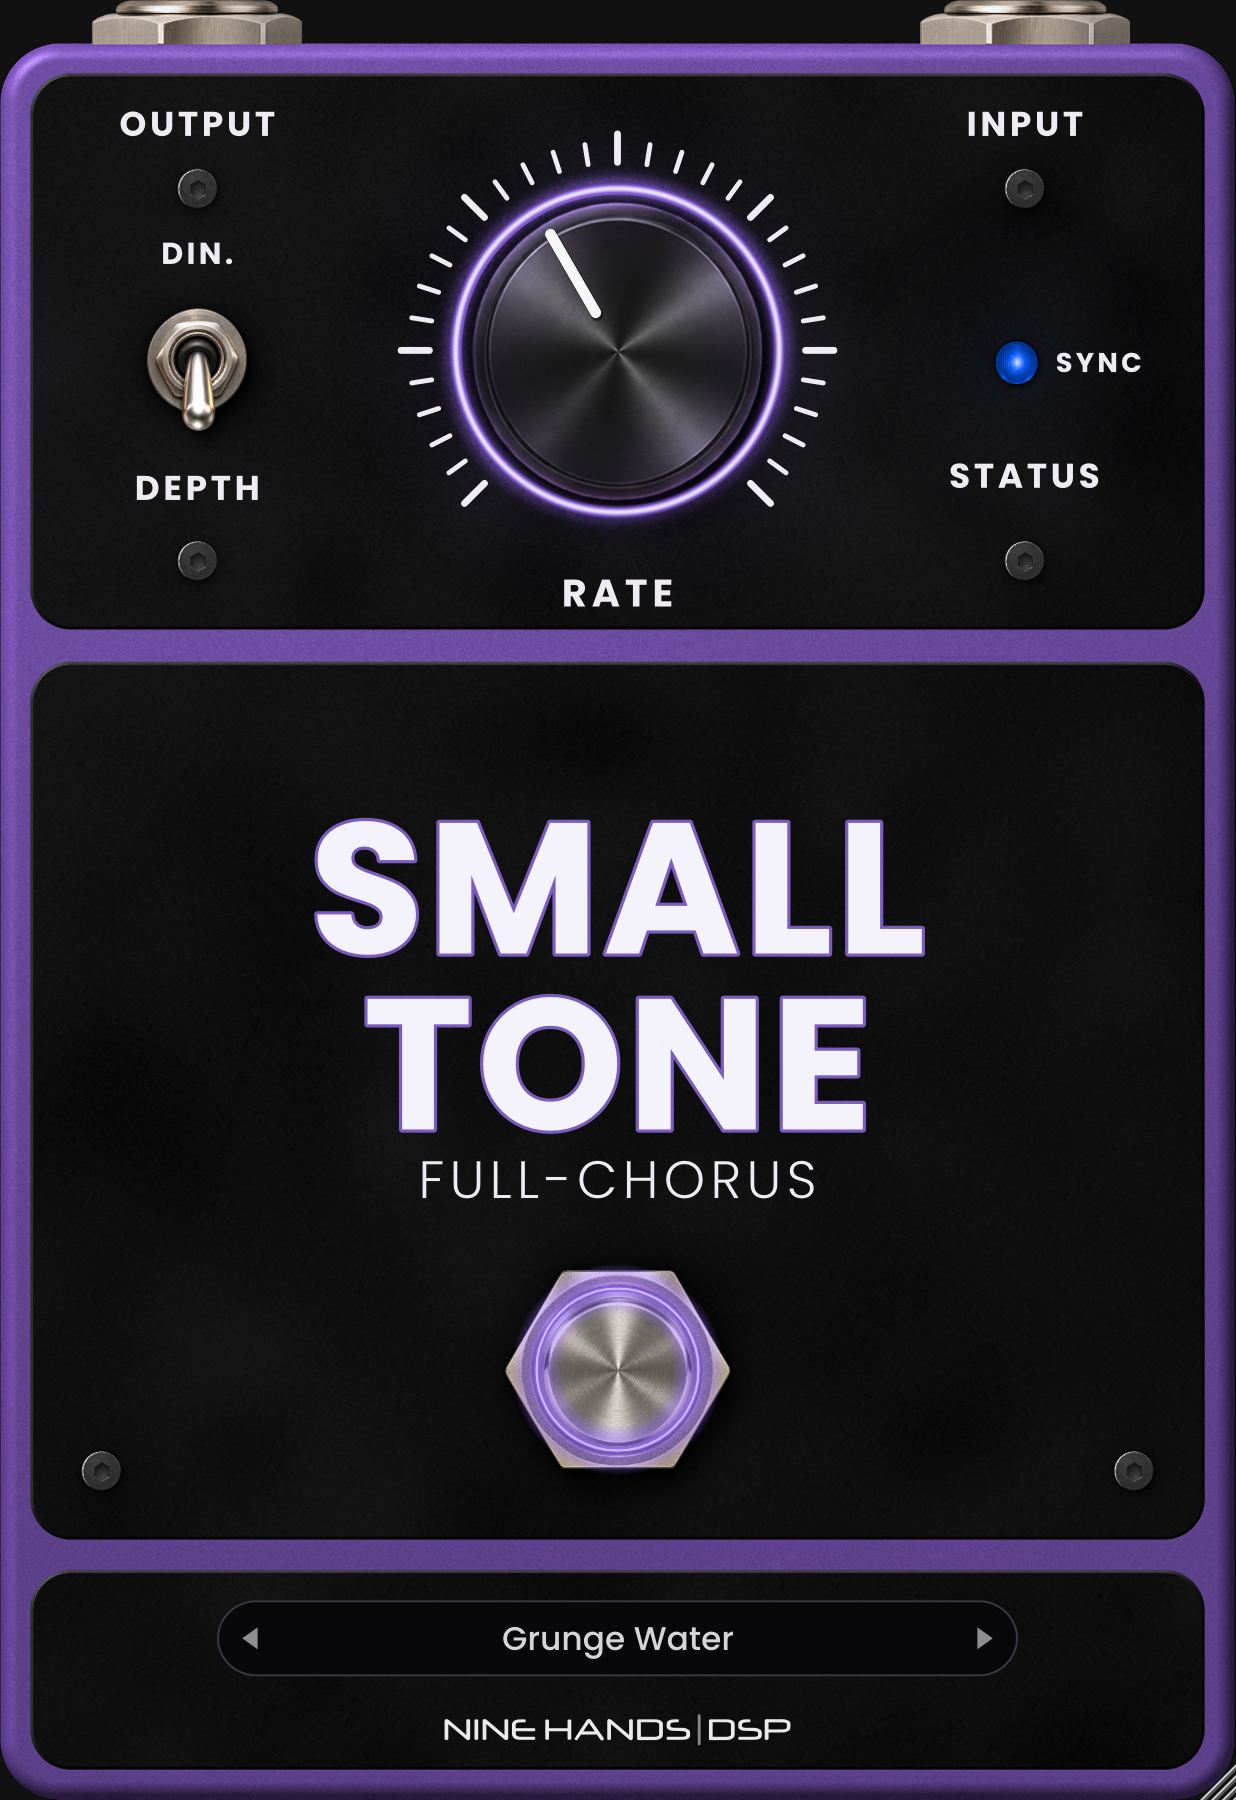
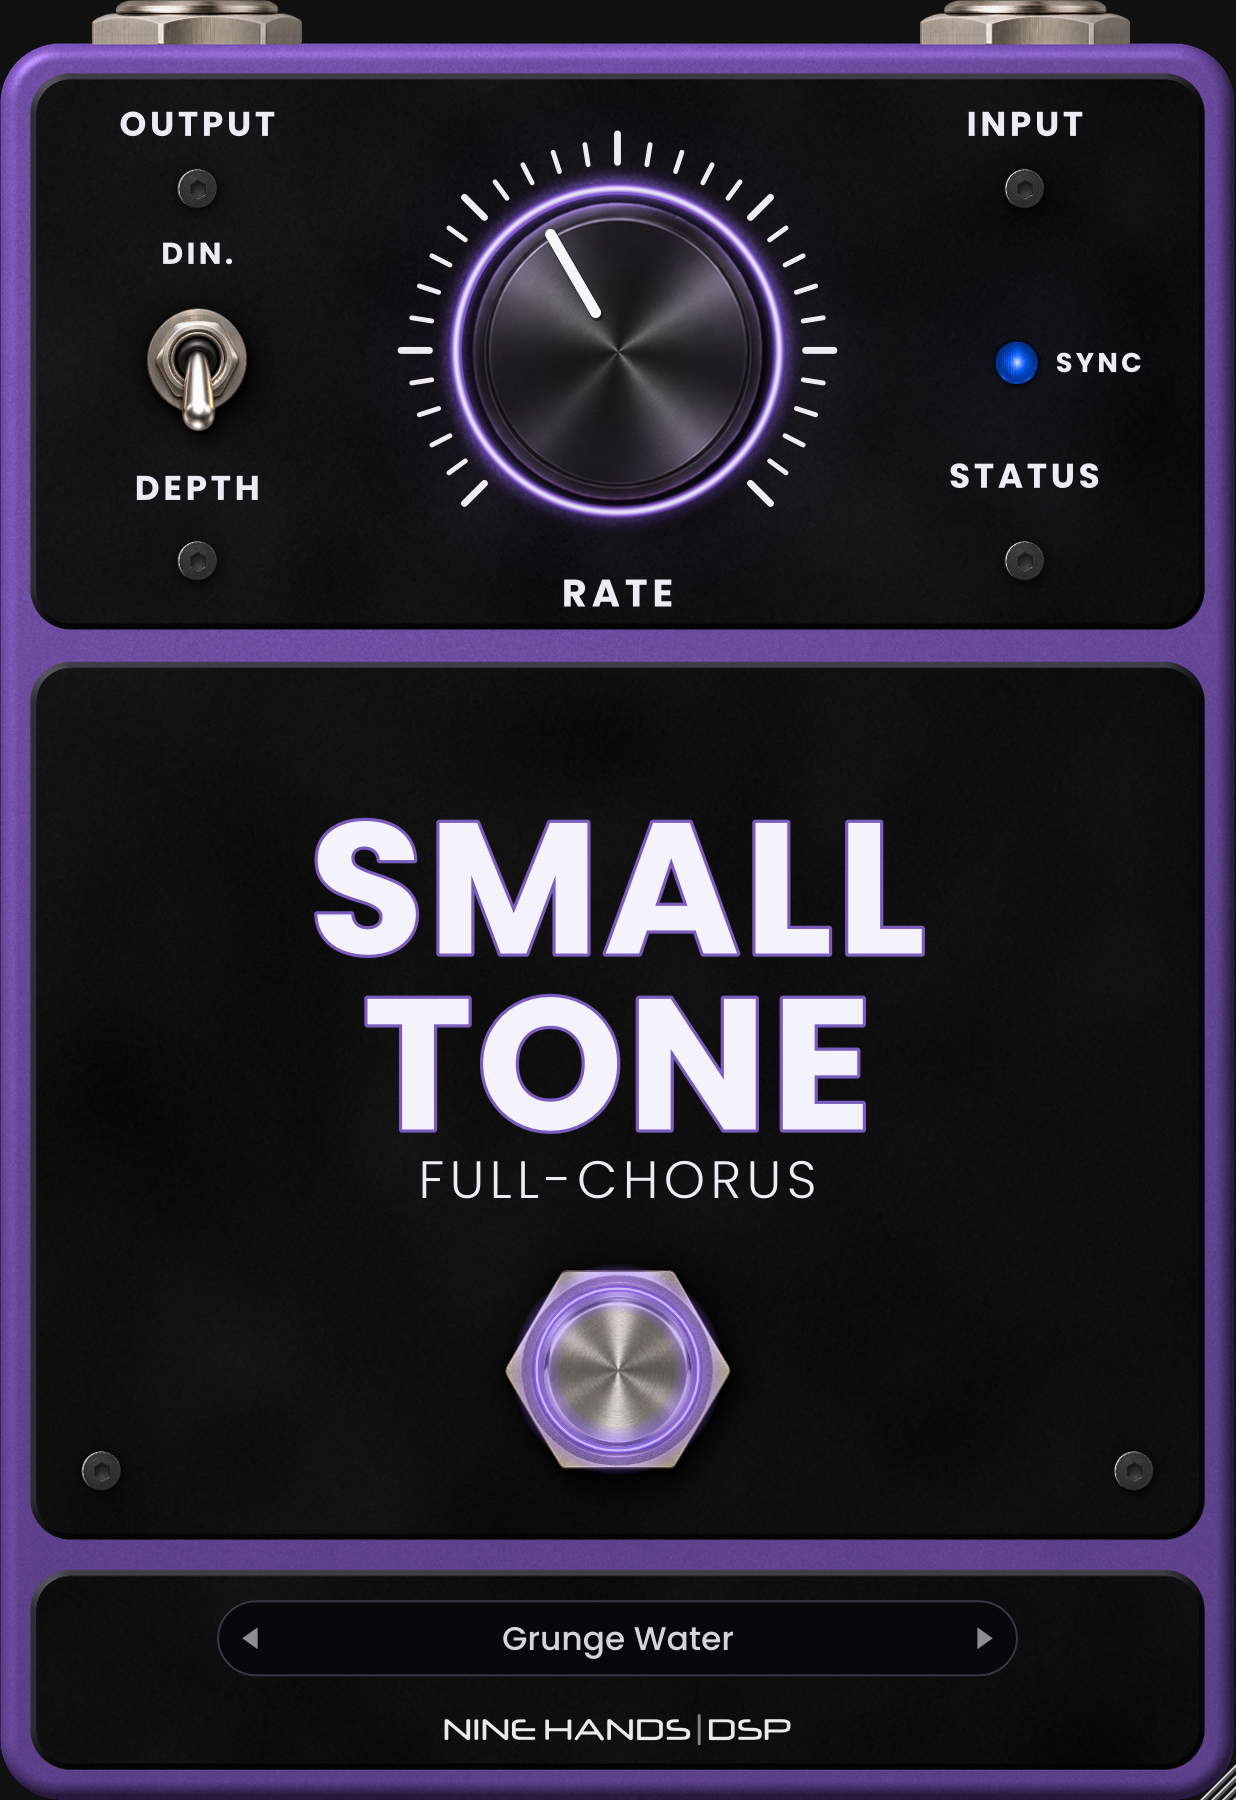
Refonte v2 : bevel plat de 6 px autour des plaques noires
Claude-Session: https://claude.ai/code/session_01M9P3ZZMVgdomojBwTRHBJY

diff --git a/tools/make_art.py b/tools/make_art.py
@@ -120,7 +120,7 @@ img *= body[..., None]
 
 # ------------------------------------------------------------------ 2. plaques noires (encastrees, coins arrondis)
 print('plaques...')
-BEVEL = 1.5 / SC                                   # bevel plat de 3 px (image 1800 px) autour de chaque plaque noire
+BEVEL = 3.0 / SC                                   # bevel plat de 6 px (image 1800 px) autour de chaque plaque noire
 for (x0, y0, w, h, r) in PANELS:
     psd = rrect_sd(UX, UY, x0, y0, w, h, r)
     pm = np.clip(0.5 - psd * AS, 0, 1)
